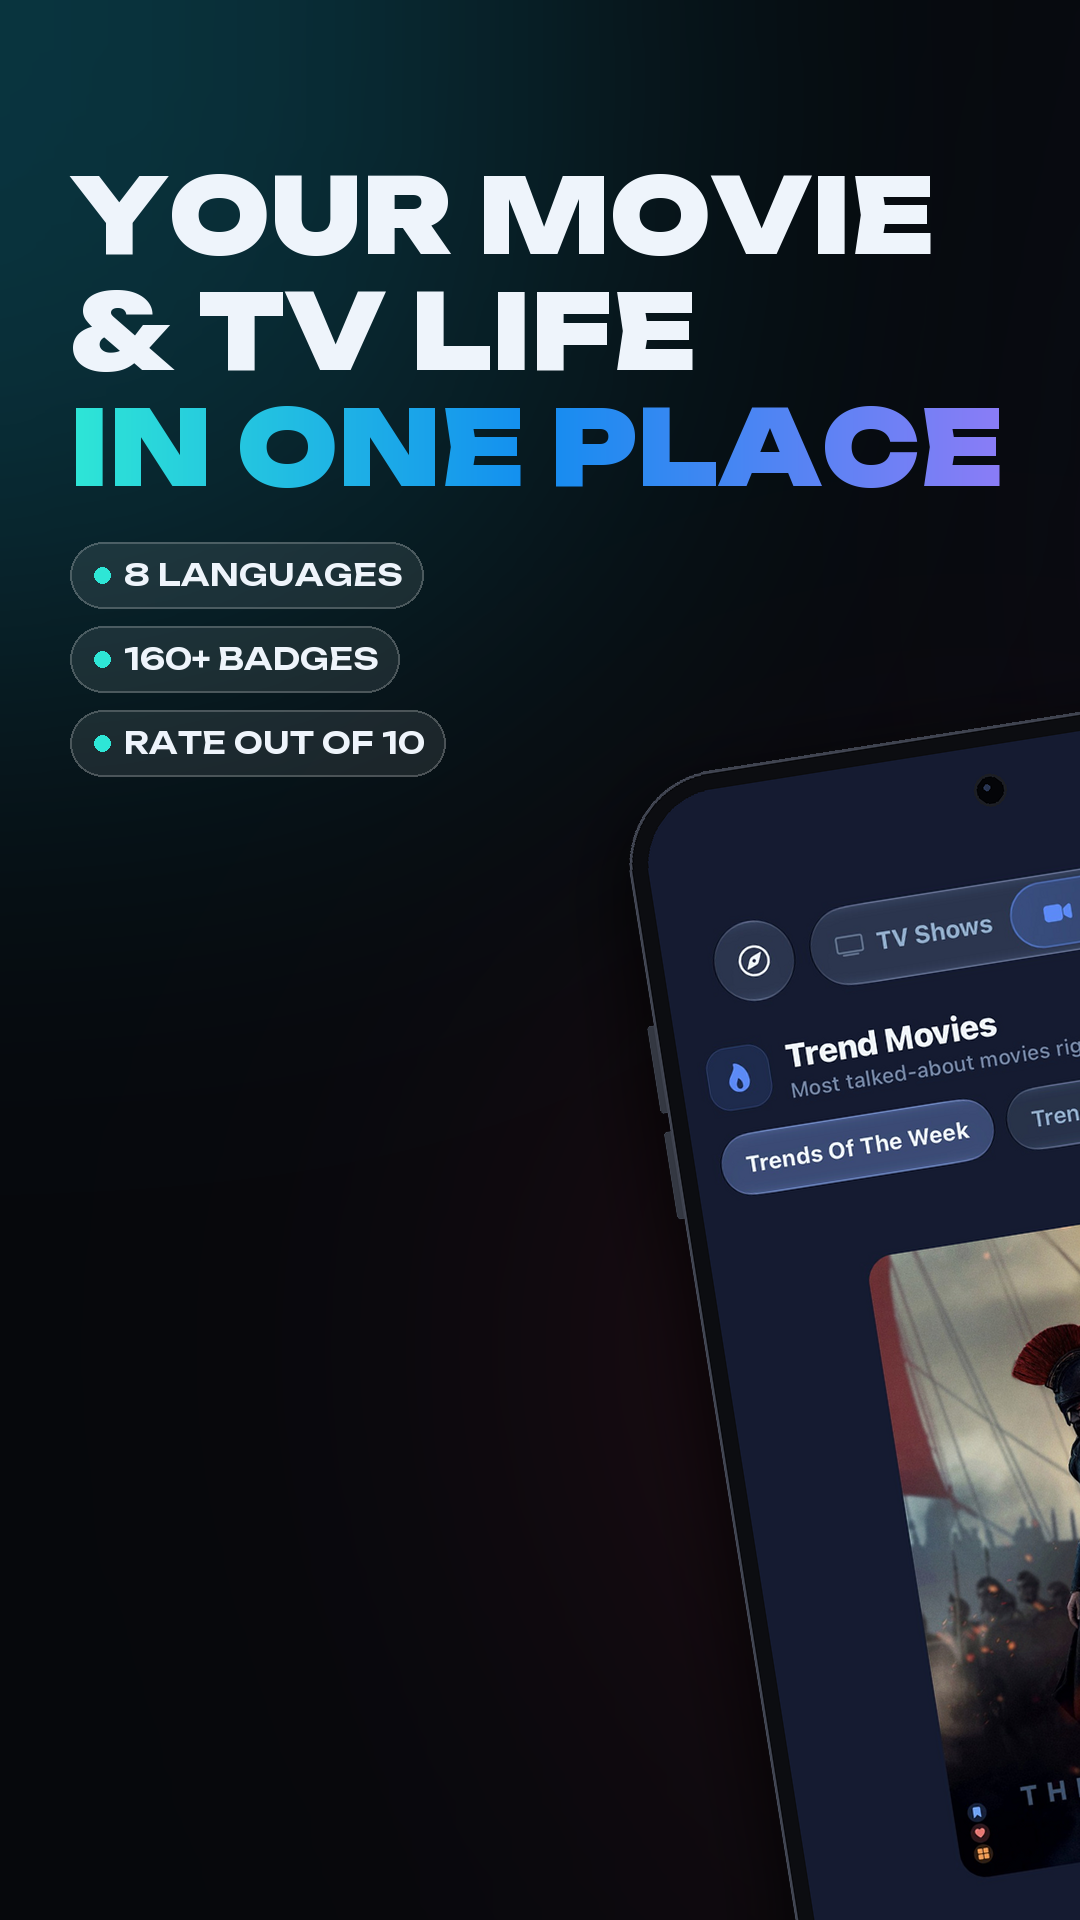
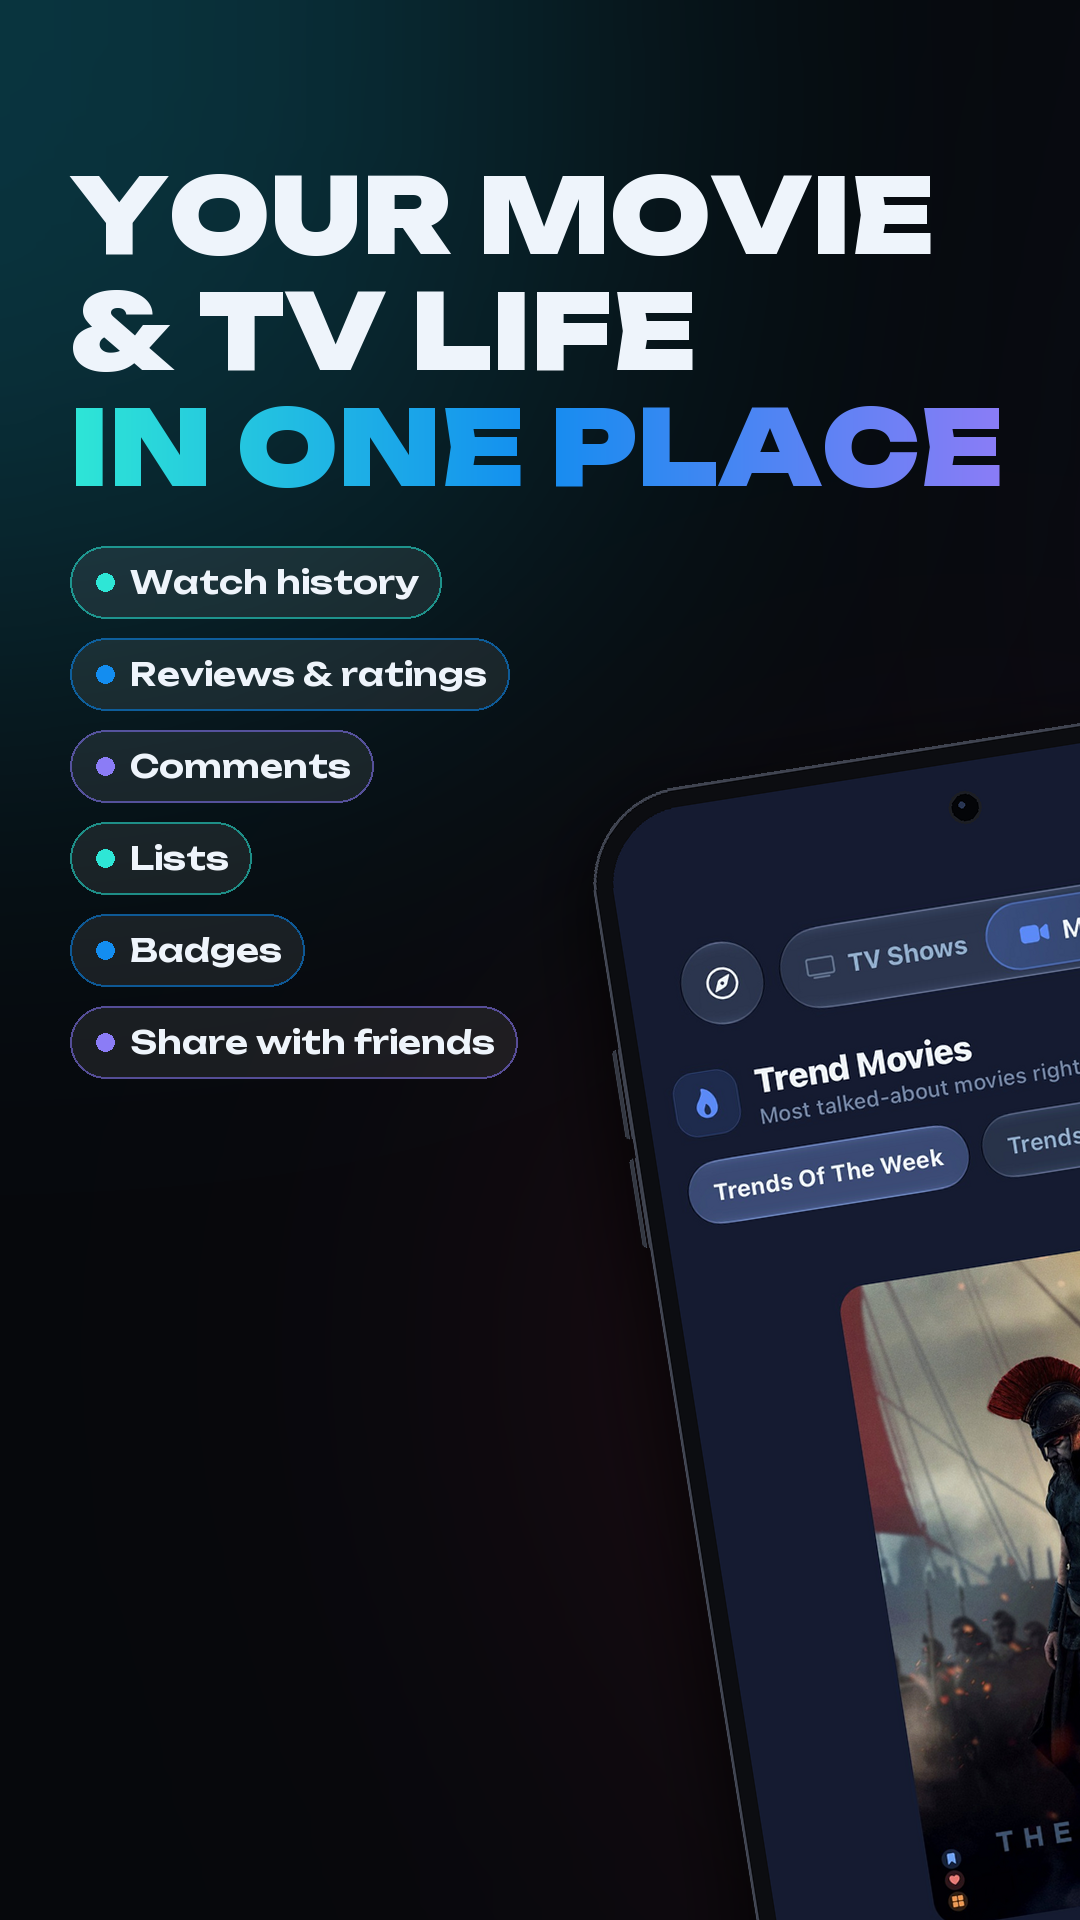
feat(mağaza): ilk iki görselde özellik listesi, 10'luk puan vurgusu kaldırıldı

Changed region(s): [[0.55, 0.375, 1.0, 1.0], [0.0611, 0.2812, 0.4583, 0.4062], [0.0917, 0.4375, 0.4583, 0.5625]]

diff --git a/store/uret-ekran-goruntuleri.py b/store/uret-ekran-goruntuleri.py
@@ -37,10 +37,10 @@ MUTED = (150, 162, 180)
 
 # Panorama (01 + 02)
 HERO = {
-    "tr-TR": (["FİLM VE DİZİ", "HAYATIN"], "TEK YERDE", ["8 DİL", "160+ ROZET", "10'LUK PUAN"],
-              "10 üzerinden, yarım puanla"),
-    "en-US": (["YOUR MOVIE", "& TV LIFE"], "IN ONE PLACE", ["8 LANGUAGES", "160+ BADGES", "RATE OUT OF 10"],
-              "Rate out of 10, halves too"),
+    "tr-TR": (["FİLM VE DİZİ", "HAYATIN"], "TEK YERDE",
+              ["İzleme geçmişi", "İnceleme ve puan", "Yorumlar", "Listeler", "Rozetler", "Arkadaşlarla paylaş"]),
+    "en-US": (["YOUR MOVIE", "& TV LIFE"], "IN ONE PLACE",
+              ["Watch history", "Reviews & ratings", "Comments", "Lists", "Badges", "Share with friends"]),
 }
 
 # Tekil görseller: (dosya, {dil: (beyaz satır, renkli satır)}, çıkıntı kartı kaynağı (x0,y0,x1,y1) ya da None,
@@ -59,7 +59,6 @@ SINGLES = [
     ("08-rozetler", {"tr-TR": ("ROZETLERİ", "TOPLA"), "en-US": ("COLLECT", "BADGES")},
      (40, 1010, 1166, 1425), 0.62, 0),
 ]
-HERO_CALLOUT = (330, 880, 1060, 1130)   # 02: 8.5/10 puan satırı
 
 
 # ─── Yardımcılar ───────────────────────────────────────────────────────────────
@@ -263,44 +262,32 @@ def hero(platform, W, H, style, lang):
     c = background(PW, PH, k, [
         (0.12, 0.18, 520, (20, 200, 232), 60), (0.45, 0.70, 560, (255, 59, 92), 45),
         (0.80, 0.30, 600, (139, 124, 246), 50), (0.98, 0.95, 420, (19, 141, 240), 40)])
-    whites, accent, chips, note = HERO[lang]
+    whites, accent, chips = HERO[lang]
     m = round(70 * k)
     y = round((150 if not tall else 230) * k)
     y = headline(c, whites, accent, m, y, W - 2 * m, 118 * k, k, align="left")
-    # Rozet çipleri (yarı saydam: ayrı katmanda çizilip harmanlanır)
-    fy = y + round(44 * k)
-    f = font(F_SEMI, 30 * k)
+    # Özellik çipleri (yarı saydam: ayrı katmanda çizilip harmanlanır)
+    fy = y + round(48 * k)
+    f = font(F_SEMI, 32 * k)
+    h = round(72 * k)
+    gap = round((20 if not tall else 30) * k)
     layer = Image.new("RGBA", c.size, (0, 0, 0, 0))
     d = ImageDraw.Draw(layer)
-    for chip in chips:
+    for i, chip in enumerate(chips):
         tw = d.textlength(chip, font=f)
-        h = round(66 * k)
-        d.rounded_rectangle((m, fy, m + tw + 74 * k, fy + h), radius=h // 2,
-                            fill=(255, 255, 255, 22), outline=(255, 255, 255, 70), width=max(2, round(2 * k)))
-        d.ellipse((m + 24 * k, fy + h / 2 - 8 * k, m + 40 * k, fy + h / 2 + 8 * k), fill=ACCENT[0] + (255,))
-        d.text((m + 54 * k, fy + h / 2), chip, font=f, fill=WHITE + (255,), anchor="lm")
-        fy += h + round(18 * k)
+        col = ACCENT[i % len(ACCENT)]
+        d.rounded_rectangle((m, fy, m + tw + 82 * k, fy + h), radius=h // 2,
+                            fill=(255, 255, 255, 20), outline=col + (150,), width=max(2, round(2 * k)))
+        d.ellipse((m + 26 * k, fy + h / 2 - 9 * k, m + 44 * k, fy + h / 2 + 9 * k), fill=col + (255,))
+        d.text((m + 60 * k, fy + h / 2), chip, font=f, fill=WHITE + (255,), anchor="lm")
+        fy += h + gap
     c = Image.alpha_composite(c, layer)
-    # Arka telefon (02) — 2. görselin sağında, sağa eğik
-    p2, s2, off2, src2 = make_phone("02-film-detay", round(640 * k), style)
-    c = place(c, p2, (1.62 * W, H * (0.58 if not tall else 0.56)), -7, k)
-    # Ön telefon (01) — sınırın üstünde, sola eğik
-    p1, s1, off1, src1 = make_phone("01-kesif", round(700 * k), style)
-    c = place(c, p1, (1.02 * W, H * (0.78 if not tall else 0.70)), 9, k)
-    # Çıkıntı kartı: 02'deki puan satırı + üstünde etiket
-    card = callout(src2, HERO_CALLOUT, round(760 * k), k)
-    cy = H * (0.86 if not tall else 0.82)
-    c = place(c, card, (1.55 * W, cy), 0, k)
-    fn = font(F_SEMI, 32 * k)
-    layer = Image.new("RGBA", c.size, (0, 0, 0, 0))
-    d = ImageDraw.Draw(layer)
-    tw = d.textlength(note, font=fn)
-    ph_ = round(64 * k)
-    lx, ly = 1.55 * W - (tw + 60 * k) / 2, cy - card.height / 2 - ph_ - 16 * k
-    d.rounded_rectangle((lx, ly, lx + tw + 60 * k, ly + ph_), radius=ph_ // 2, fill=(10, 12, 18, 235),
-                        outline=ACCENT[1] + (255,), width=max(2, round(2 * k)))
-    d.text((1.55 * W, ly + ph_ / 2), note, font=fn, fill=WHITE + (255,), anchor="mm")
-    c = Image.alpha_composite(c, layer)
+    # Arka telefon (02) — 2. görselde, hafif sağa eğik
+    p2, _, _, _ = make_phone("02-film-detay", round(740 * k), style)
+    c = place(c, p2, (1.60 * W, H * (0.60 if not tall else 0.57)), -6, k)
+    # Ön telefon (01) — iki görselin sınırında, sola eğik
+    p1, _, _, _ = make_phone("01-kesif", round(720 * k), style)
+    c = place(c, p1, (1.0 * W, H * (0.80 if not tall else 0.72)), 9, k)
     return c.crop((0, 0, W, H)), c.crop((W, 0, 2 * W, H))
 
 
